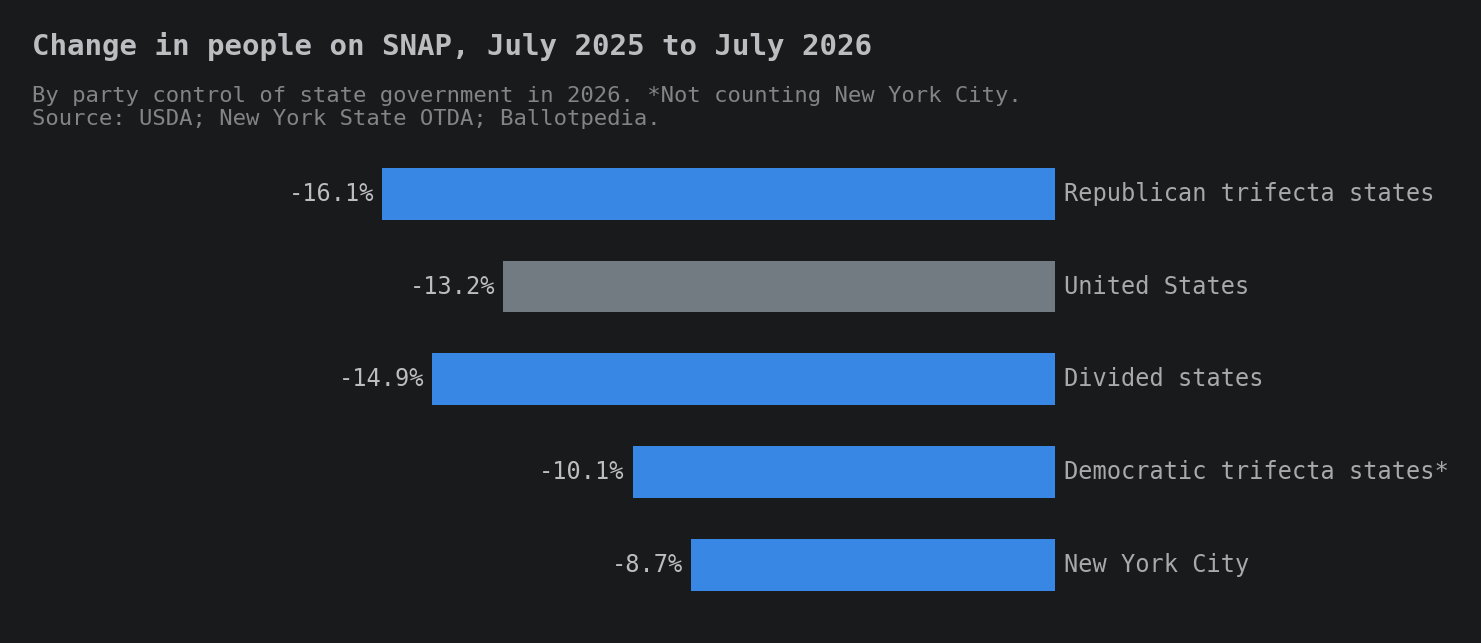
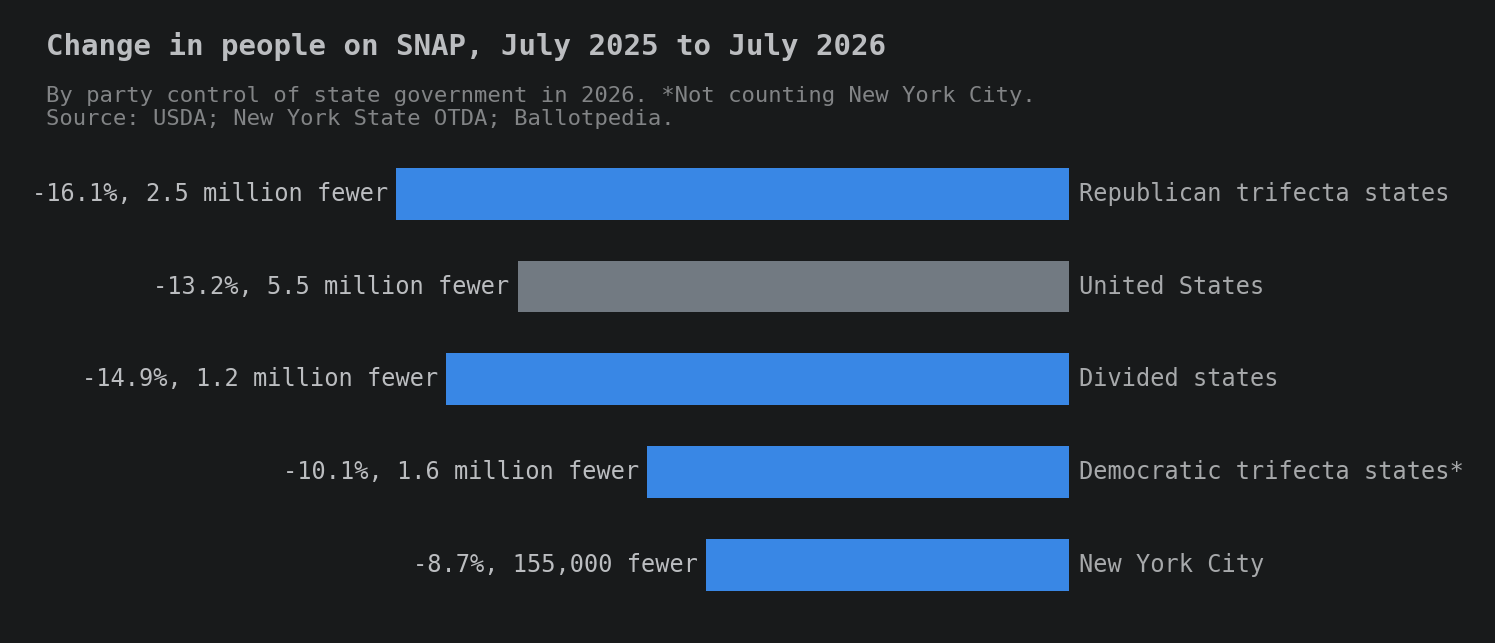
snap-stores-leaving-2026: people counts on the enrollment change chart

diff --git a/src/analysis/post8_enrollment.py b/src/analysis/post8_enrollment.py
@@ -215,15 +215,28 @@ def main():
         xticks=[(y, str(y)) for y in range(2020, 2027)])
     print(f"wrote {IMG / 'post8-enrollment.png'}")
 
-    yoy = lambda k: out[k]["jul2025"]["pct"]
-    tri = lambda p: out["trifecta_2026"][p]["jul2025"]["pct"]
+    def people(n):
+        """Fewer people, rounded for a chart label: 2.5 million, 155,000."""
+        if n >= 1_000_000:
+            return f"{Decimal(n / 1e6).quantize(Decimal('0.1'), ROUND_HALF_UP)} million"
+        return f"{int(Decimal(n / 1000).quantize(Decimal('1'), ROUND_HALF_UP)):,},000"
+
+    def bar(label, ch, slot):
+        lost = ch["jul2025"]["from"] - ch["jul2025"]["to"]
+        out["chart_people_lost"][label] = lost
+        return {"label": label, "value": ch["jul2025"]["pct"], "slot": slot,
+                "value_text": f"{ch['jul2025']['pct']}%, {people(lost)} fewer"}
+
+    out["chart_people_lost"] = {}
+    T = out["trifecta_2026"]
+    rows = [bar("Republican trifecta states", T["Republican"], 1),
+            bar("United States", out["us"], 0),
+            bar("Divided states", T["Divided"], 1),
+            bar("Democratic trifecta states*", T["Democratic"], 1),
+            bar("New York City", out["nyc_otda"], 1)]
+    OUT.write_text(json.dumps(out, indent=1))
     figures.hbar_png(
-        IMG / "post8-enrollment-change.png",
-        [{"label": "Republican trifecta states", "value": tri("Republican"), "slot": 1},
-         {"label": "United States", "value": yoy("us"), "slot": 0},
-         {"label": "Divided states", "value": tri("Divided"), "slot": 1},
-         {"label": "Democratic trifecta states*", "value": tri("Democratic"), "slot": 1},
-         {"label": "New York City", "value": yoy("nyc_otda"), "slot": 1}],
+        IMG / "post8-enrollment-change.png", rows,
         suffix="%", direction="left",
         title="Change in people on SNAP, July 2025 to July 2026",
         subtitle="By party control of state government in 2026. *Not counting New York City.\n"

diff --git a/src/tieout_post8.py b/src/tieout_post8.py
@@ -480,6 +480,16 @@ def main():
             a, b = ser.loc[(2025, 7)], ser.loc[(2026, 7)]
             tie(f"Enrollment {key} {lab}: Jul 2025 to Jul 2026 % change",
                 ej[key][lab]["jul2025"]["pct"], r1(100 * (b - a) / a))
+    t26 = tri[tri["year"] == 2026].set_index("state")["trifecta"].map(
+        {"R": "Republican", "D": "Democratic"}).fillna("Divided")
+    lost = lambda ser: int(ser.loc[(2025, 7)] - ser.loc[(2026, 7)])
+    for lab, ser in (("Republican trifecta states", piv[list(t26[t26 == "Republican"].index)].sum(axis=1)),
+                     ("United States", piv["US Summary"]),
+                     ("Divided states", piv[list(t26[t26 == "Divided"].index)].sum(axis=1)),
+                     ("Democratic trifecta states*", piv[list(t26[t26 == "Democratic"].index)].sum(axis=1)
+                      - nyc_s.reindex(piv.index)),
+                     ("New York City", nyc_s)):
+        tie(f"Enrollment chart: {lab}, people fewer Jul 2025 to Jul 2026", ej["chart_people_lost"][lab], lost(ser))
     tie("Enrollment: US persons July 2026", ej["us"]["jul2025"]["to"], int(piv["US Summary"].loc[(2026, 7)]))
     tie("Enrollment: NYC persons August 2026", ej["nyc_latest"]["persons"], int(nyc_s.loc[(2026, 8)]))
     us20 = piv["US Summary"].loc[(2020, 1):(2026, 7)]

diff --git a/src/analysis/figures.py b/src/analysis/figures.py
@@ -207,7 +207,8 @@ def line_png(path, years, series, ylabel="", width=6.6, height=3.3, annotate=Non
 
 def hbar_png(path, rows, suffix="", width=6.6, note_key=None, title="",
              subtitle="", direction="right"):
-    """`rows` = [{label, value, slot?, note?}], drawn top-to-bottom as given.
+    """`rows` = [{label, value, slot?, note?, value_text?}], drawn top-to-bottom
+    as given. `value_text` replaces the printed value (to add a count beside it).
 
     direction="left" anchors the bars to a right-hand baseline and grows them
     leftward, with labels on the right. Pass the values signed (negative for a
@@ -233,7 +234,7 @@ def hbar_png(path, rows, suffix="", width=6.6, note_key=None, title="",
         ax.barh(y, v, height=0.56, color=c, zorder=3)
         ax.text(-sgn * 0.014 * hi, y, r["label"], ha="left" if left else "right",
                 va="center", fontsize=8.5, family=MONO, color=INK_MID)
-        txt = f"{r['value']:,.1f}{suffix}".replace(".0" + suffix, suffix)
+        txt = r.get("value_text") or f"{r['value']:,.1f}{suffix}".replace(".0" + suffix, suffix)
         ax.text(v + sgn * 0.012 * hi, y, txt, ha="right" if left else "left",
                 va="center", fontsize=8.5, family=MONO, color=INK)
         if note_key and r.get(note_key):

diff --git a/DATASETS.md b/DATASETS.md
@@ -291,7 +291,7 @@ replacement, which makes "not replaced" counts lower, not higher.
 - **Known issue:** a partial federal shutdown moved February 2019 benefits into January 2019, so USDA's February 2019 count (7.6 million people) is not a real drop. The chart starts in January 2020.
 - **Used in post 8** (`src/analysis/post8_enrollment.py`, `reports/data/post8_enrollment.json`, `post8-enrollment.png`):
   - People on SNAP nationally each month, January 2020 to July 2026.
-  - Percent change in people on SNAP from January 2025, July 2025 and December 2025 to July 2026, for the US Summary, the ten states with soda or candy limits in 2026 (the same list as the restriction-state split), the other 40 states plus DC (territories left out), and New York State. The post text cites July 2025 to July 2026 for limit states (-20.1%) and other states and DC (-11.3%). The chart `post8-enrollment-change.png` groups states by party control of state government in 2026 (see the Ballotpedia section): Republican trifecta states -16.1%, US -13.2%, divided states -14.9%, Democratic trifecta states not counting New York City -10.1%, New York City -8.7% (from the OTDA file below). Arizona is a divided state; without it that group fell 10.6%. Without Texas and Florida, Republican trifecta states fell 12.9%. With 2025 status instead (Virginia divided, not Democratic), the groups are -16.1%, -14.4% and -10.1%. Arizona, which has no soda or candy limit, is in the other-states group; without it that group fell 10.2%. Texas and Florida account for 70% of the people the limit-state group lost.
+  - Percent change in people on SNAP from January 2025, July 2025 and December 2025 to July 2026, for the US Summary, the ten states with soda or candy limits in 2026 (the same list as the restriction-state split), the other 40 states plus DC (territories left out), and New York State. The post text cites July 2025 to July 2026 for limit states (-20.1%) and other states and DC (-11.3%). The chart `post8-enrollment-change.png` groups states by party control of state government in 2026 (see the Ballotpedia section): Republican trifecta states -16.1%, US -13.2%, divided states -14.9%, Democratic trifecta states not counting New York City -10.1%, New York City -8.7% (from the OTDA file below). Each bar also prints the number of fewer people, July 2025 minus July 2026, rounded to the nearest 0.1 million or, under a million, the nearest thousand (Republican 2,545,699; US 5,511,740; divided 1,228,514; Democratic not counting NYC 1,564,460; NYC 155,393). Arizona is a divided state; without it that group fell 10.6%. Without Texas and Florida, Republican trifecta states fell 12.9%. With 2025 status instead (Virginia divided, not Democratic), the groups are -16.1%, -14.4% and -10.1%. Arizona, which has no soda or candy limit, is in the other-states group; without it that group fell 10.2%. Texas and Florida account for 70% of the people the limit-state group lost.
   - The change for each state and DC from July 2025 to July 2026 is kept in the JSON for reference. Arizona's -50.8% is real, not a file error: the Center on Budget and Policy Priorities reports the same figure ("nearly 51 percent lower"), and Arizona's Department of Economic Security has tied it to verification and processing problems in putting the 2025 law in place.
   - Outside check: CBPP's SNAP Tracker reports a national drop of 5.5 million people (13 percent) from July 2025 to July 2026, with every state but Alaska down. Our figures match (5,511,740 people; Alaska +3.5%).
   - These are patterns next to the store exits. They do not show that falling enrollment caused any store to leave SNAP.

diff --git a/STATUS.md b/STATUS.md
@@ -58,3 +58,4 @@ None. No later step had been confirmed under this file.
 - 2026-11-10 Eric asked to keep the limit-state bar: restored the four-bar enrollment change chart (limit states -20.1%, US -13.2%, other states and DC -11.3%, NYC -8.7%) and the limit-state checks. Arizona is not a limit state (it is in the other-states group; without it that group fell 10.2%); Texas and Florida are 70% of the limit-state loss. Told Eric before any text change. Queued an Arizona follow-up post.
 - 2026-11-10 Eric accepted edits 5 and 6: limit-state, Texas and Florida, and Arizona sentences added to the enrollment bullet; chart intro now says "by group".
 - 2026-11-10 Eric asked to group the enrollment chart by state trifecta status (Ballotpedia, from his earlier SUD_V3 analysis) instead of soda and candy limits, with NYC split out. Chart rebuilt: Republican trifecta -16.1%, US -13.2%, divided -14.9%, Democratic trifecta not counting NYC -10.1%, NYC -8.7%. Checks: divided without Arizona -10.6%; Republican without Texas and Florida -12.9%; 2025 status gives -16.1/-14.4/-10.1. DATASETS.md updated; own tie-out 232 of 232. Post text edits proposed, not applied.
+- 2026-11-10 Enrollment change chart now prints the number of fewer people beside each percent (US 5.5 million; Republican trifecta 2.5 million; Democratic trifecta not counting NYC 1.6 million; divided 1.2 million; NYC 155,000). Own tie-out 237 of 237.

diff --git a/TIEOUT_POST8.md b/TIEOUT_POST8.md
@@ -233,6 +233,11 @@ Recomputed by `src/tieout_post8.py` from `data/raw/hist.csv` and `data/raw/live/
 | Enrollment trifecta_2025_check Divided (12 states): Jul 2025 to Jul 2026 % change | -14.4 | -14.4 | match |
 | Enrollment trifecta_2025_check Divided_excl_AZ: Jul 2025 to Jul 2026 % change | -10.5 | -10.5 | match |
 | Enrollment trifecta_2025_check Republican_excl_TX_FL: Jul 2025 to Jul 2026 % change | -12.9 | -12.9 | match |
+| Enrollment chart: Republican trifecta states, people fewer Jul 2025 to Jul 2026 | 2,545,699 | 2,545,699 | match |
+| Enrollment chart: United States, people fewer Jul 2025 to Jul 2026 | 5,511,740 | 5,511,740 | match |
+| Enrollment chart: Divided states, people fewer Jul 2025 to Jul 2026 | 1,228,514 | 1,228,514 | match |
+| Enrollment chart: Democratic trifecta states*, people fewer Jul 2025 to Jul 2026 | 1,564,460 | 1,564,460 | match |
+| Enrollment chart: New York City, people fewer Jul 2025 to Jul 2026 | 155,393 | 155,393 | match |
 | Enrollment: US persons July 2026 | 36,087,667 | 36,087,667 | match |
 | Enrollment: NYC persons August 2026 | 1,613,318 | 1,613,318 | match |
 | Enrollment: 2020-2026 peak month | 2024-10 | 2024-10 | match |
